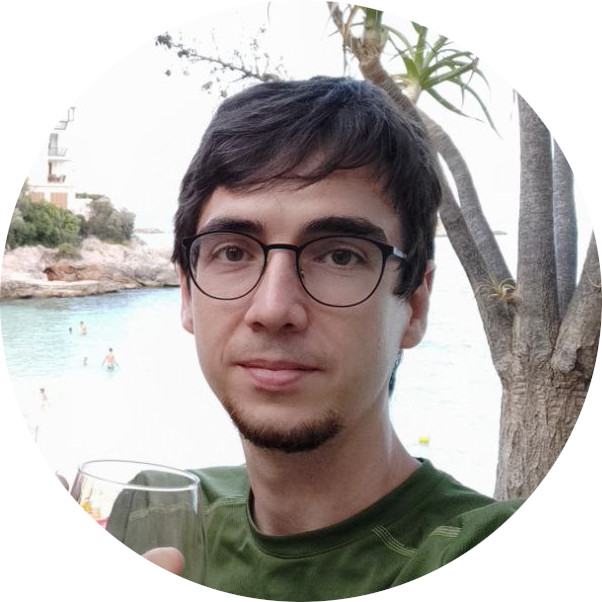
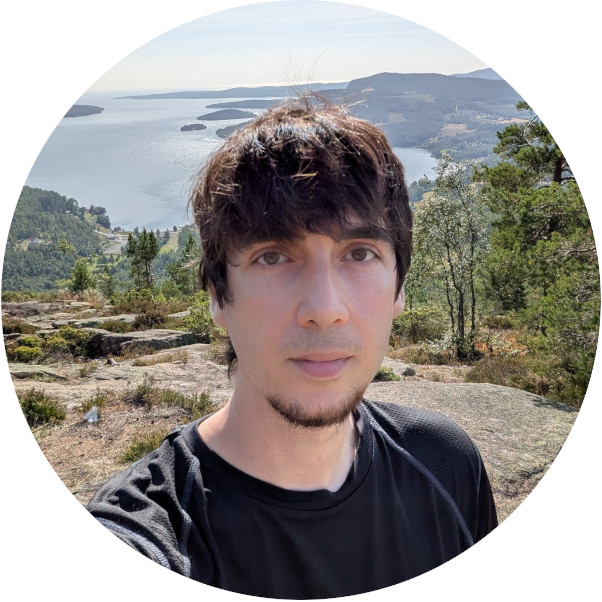
Update academic advising

diff --git a/_pages/academic-advising.md b/_pages/academic-advising.md
@@ -8,8 +8,8 @@ title_h1: Academic advising.
 eyebrow: TEACHING / ACADEMIC ADVISING
 lead: >-
   I am the third-year academic advisor for the Degree in Physics at the
-  University of Zaragoza. This page is a placeholder while I prepare a longer
-  write-up over the summer; for now, here is what I have on hand.
+  University of Zaragoza. Here are the tools I have put together for the
+  role and how to reach me.
 net: teaching
 ---
 
@@ -21,10 +21,14 @@ net: teaching
   Telegram bot that fires scheduled reminders. I use it to nudge students
   about upcoming deadlines.
 
-- **Degree in Physics Dashboard** *(in progress)* — a small web application
-  giving an overview of the degree: course offerings, average grades, and
-  other data points to help students plan their academic path. Expected to
-  ship this summer.
+- **[Degree in Physics Dashboard](https://aaleta.github.io/unizar_dashboard/)** —
+  a web app that puts the official statistics of the degree in one place:
+  grade distributions, pass and no-show rates per course, admission marks,
+  timetables and exam dates. The numbers were always public, but scattered
+  across spreadsheets and reports; now students can check them before
+  enrolling instead of relying on hallway rumours. Built by a student as
+  an external internship at BIFI. Source on
+  [GitHub](https://github.com/aaleta/unizar_dashboard).
 
 <p class="section-head__kicker" style="color: var(--accent); letter-spacing: 0.18em; font-family: var(--font-mono); font-size: var(--fs-mono); text-transform: uppercase; margin: var(--s-9) 0 var(--s-1);">§ — Contact</p>
 
